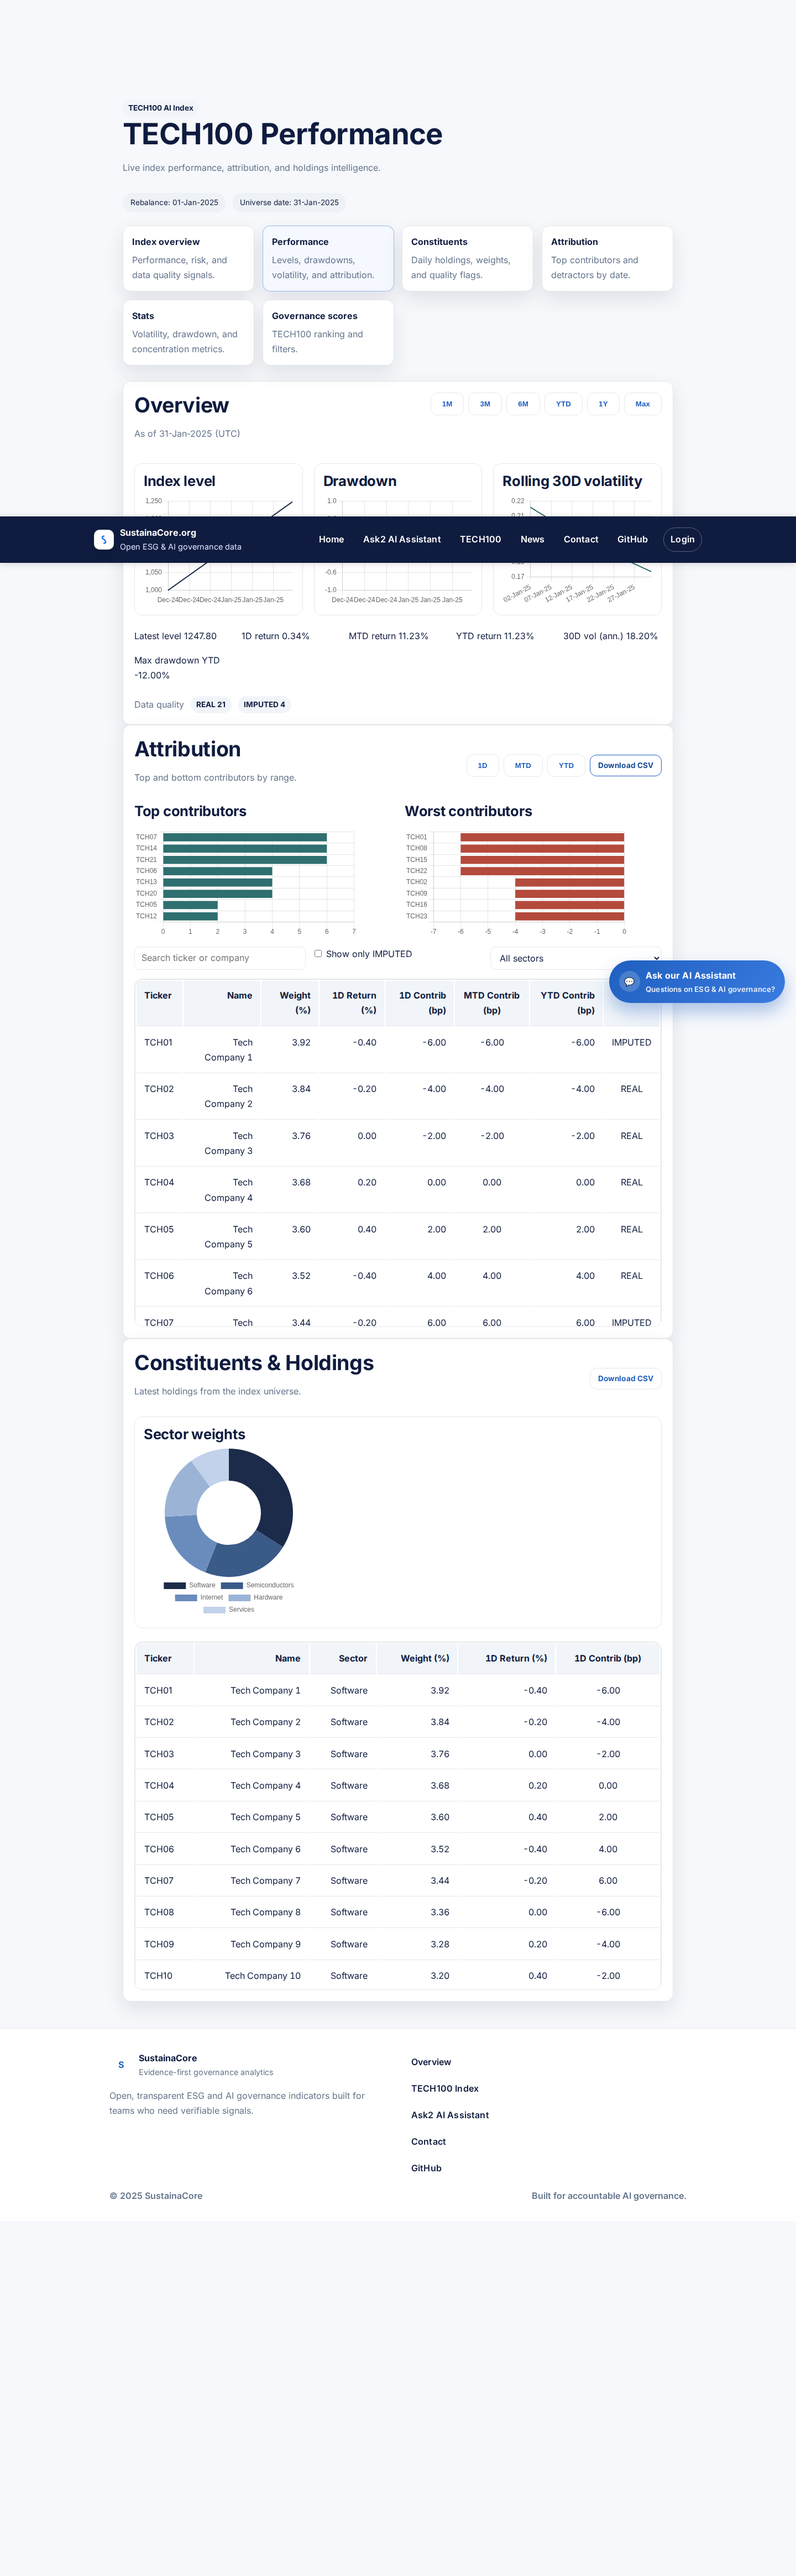
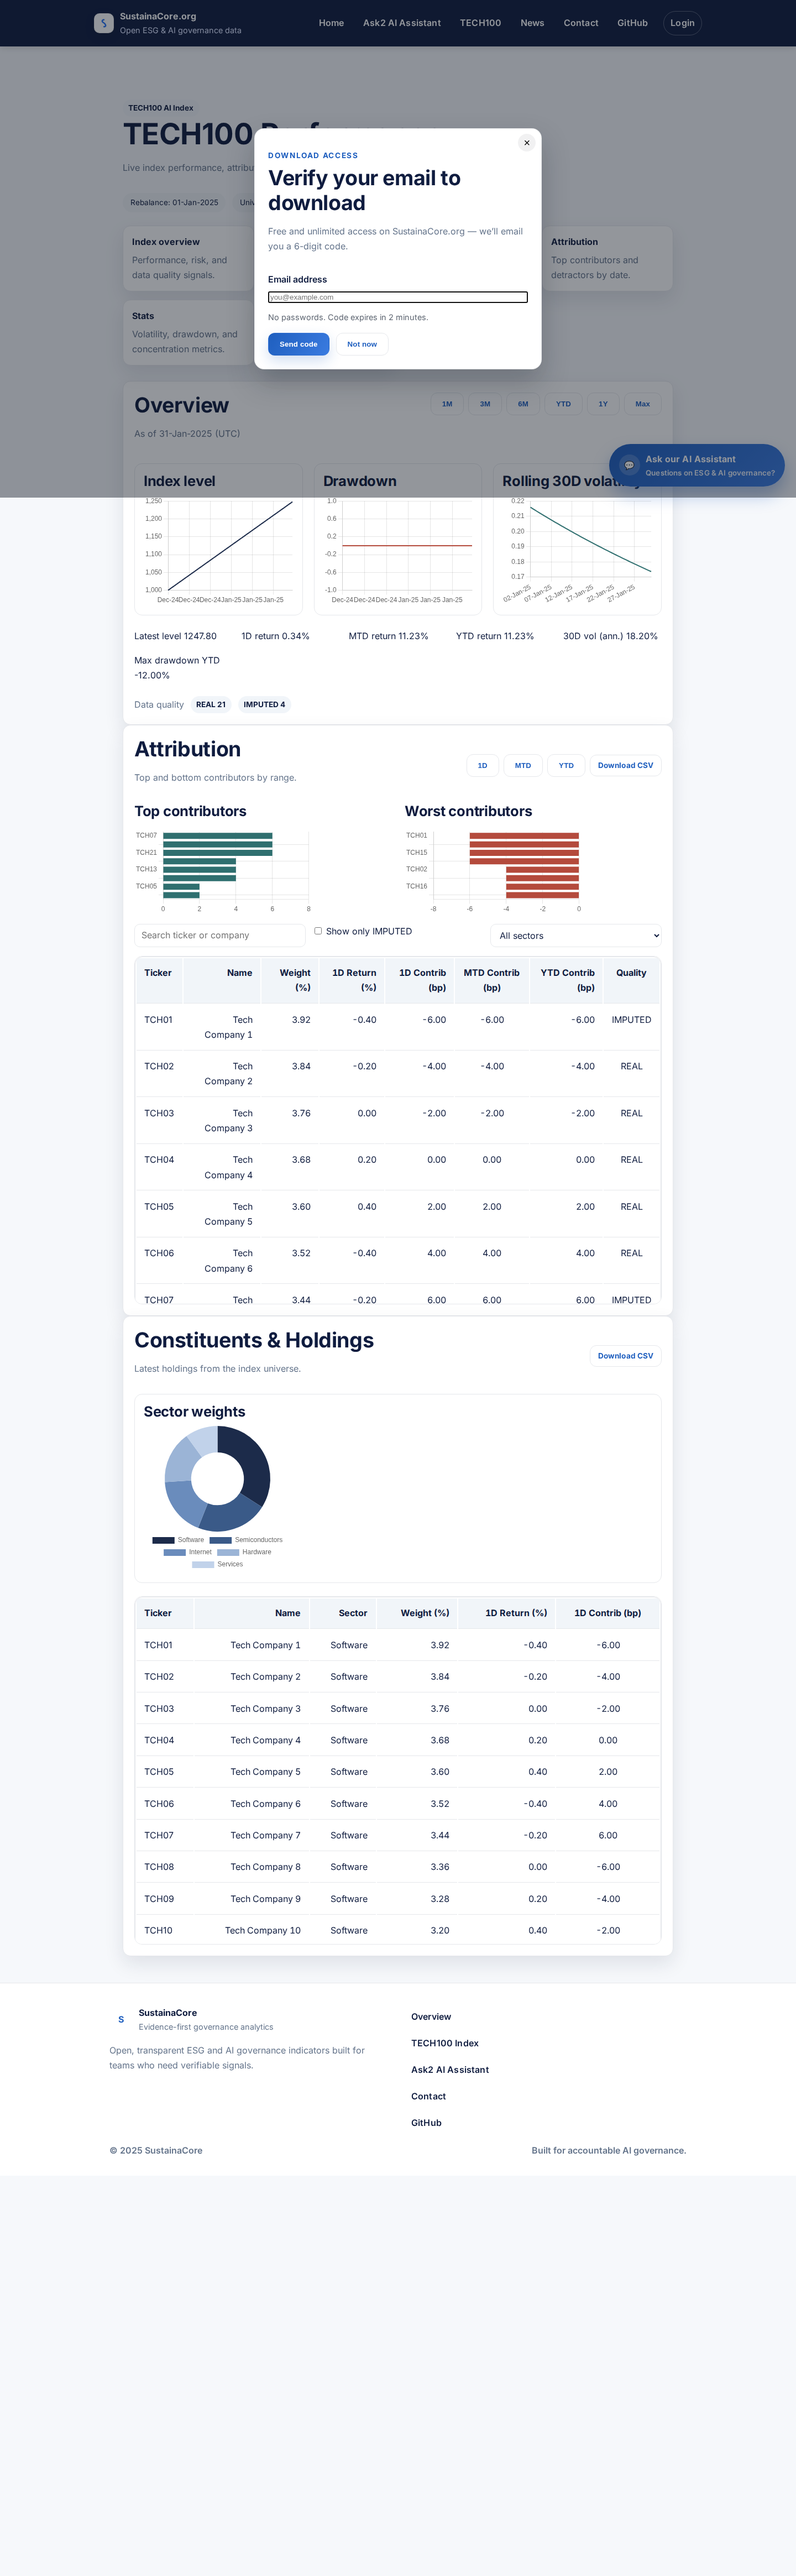
Fix download verification modal visibility

diff --git a/website_django/static/js/download_gate.js b/website_django/static/js/download_gate.js
@@ -1,5 +1,5 @@
 (() => {
-  const modal = document.querySelector("[data-download-modal]");
+  const modal = document.getElementById("download-auth-modal");
   document.documentElement.dataset.downloadGate = "ready";
   if (!modal) {
     return;
@@ -91,16 +91,25 @@
   };
 
   const openModal = () => {
+    modal.hidden = false;
     modal.setAttribute("aria-hidden", "false");
-    modal.classList.add("modal--open");
+    modal.classList.add("modal--open", "is-visible");
+    document.body.classList.add("has-download-modal");
     showEmailStep();
     setTimeout(() => emailInput?.focus(), 50);
+    return modal.classList.contains("modal--open");
   };
 
-  const closeModal = () => {
+  const closeModal = (options = {}) => {
+    const shouldClearPending = options.clearPending !== false;
     modal.setAttribute("aria-hidden", "true");
-    modal.classList.remove("modal--open");
+    modal.classList.remove("modal--open", "is-visible");
+    document.body.classList.remove("has-download-modal");
+    modal.hidden = true;
     showError("");
+    if (shouldClearPending) {
+      clearPending();
+    }
   };
 
   const showEmailStep = () => {
@@ -151,7 +160,10 @@
     showDebugToast(`Download detected: ${href} | logged_in=false | action=modal`);
     storePending(href);
     sendEvent("download_blocked", { download: href, page: window.location.pathname });
-    openModal();
+    const opened = openModal();
+    if (!opened) {
+      window.location.assign(href);
+    }
   };
 
   const isDownloadUrl = (href) => {
@@ -210,6 +222,12 @@
     }
     if (event.key === "Tab") {
       trapFocus(modal, event);
+    }
+  });
+
+  document.addEventListener("keydown", (event) => {
+    if (event.key === "Escape" && modal.classList.contains("modal--open")) {
+      closeModal();
     }
   });
 
@@ -294,7 +312,7 @@
         return;
       }
       body.dataset.loggedIn = "true";
-      closeModal();
+      closeModal({ clearPending: false });
       triggerPendingDownload();
     } catch (err) {
       showError("We could not verify the code right now. Please try again.");

diff --git a/website_django/static/css/main.css b/website_django/static/css/main.css
@@ -2272,7 +2272,7 @@ textarea:focus {
     }
 }
 
-.modal {
+.modal--download {
     position: fixed;
     inset: 0;
     display: none;
@@ -2280,11 +2280,26 @@ textarea:focus {
     justify-content: center;
     padding: 24px;
     background: rgba(16, 22, 34, 0.45);
-    z-index: 50;
+    z-index: 9999;
+    opacity: 0;
+    pointer-events: none;
+    transition: opacity 0.2s ease;
 }
 
-.modal--open {
+.modal--download.modal--open {
     display: flex;
+    opacity: 1;
+    pointer-events: auto;
+}
+
+.modal--download.is-visible {
+    display: flex;
+    opacity: 1;
+    pointer-events: auto;
+}
+
+.has-download-modal {
+    overflow: hidden;
 }
 
 .modal__dialog {

diff --git a/website_django/templates/base.html b/website_django/templates/base.html
@@ -101,7 +101,7 @@
         {% csrf_token %}
     </form>
 
-    <div class="modal" data-download-modal aria-hidden="true">
+    <div id="download-auth-modal" class="modal modal--download" data-download-modal aria-hidden="true" hidden>
         <div class="modal__dialog" role="dialog" aria-modal="true" aria-labelledby="download-modal-title">
             <div class="modal__header">
                 <div>
